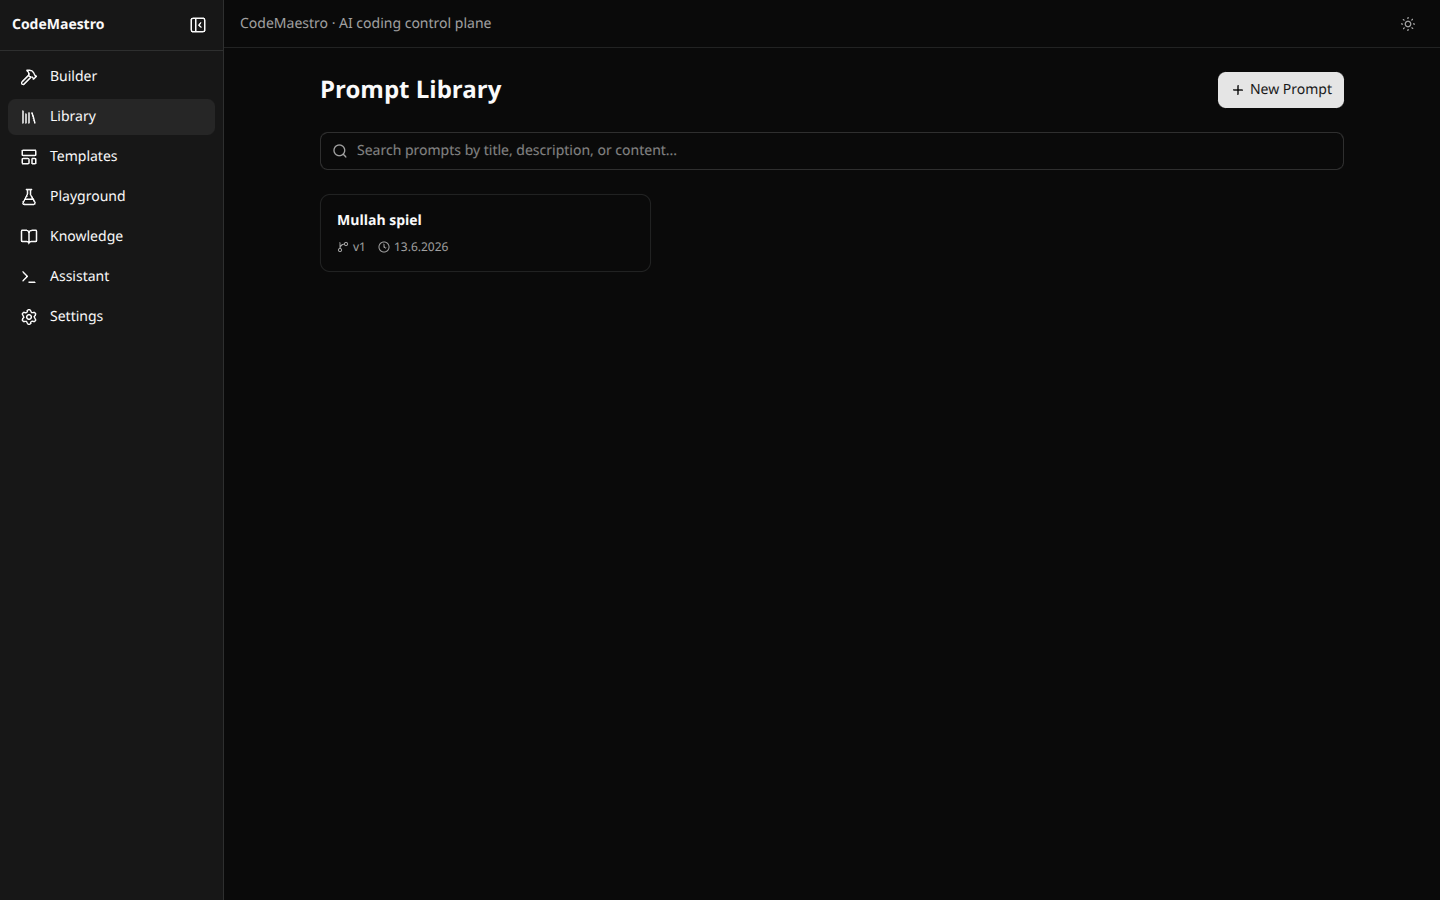
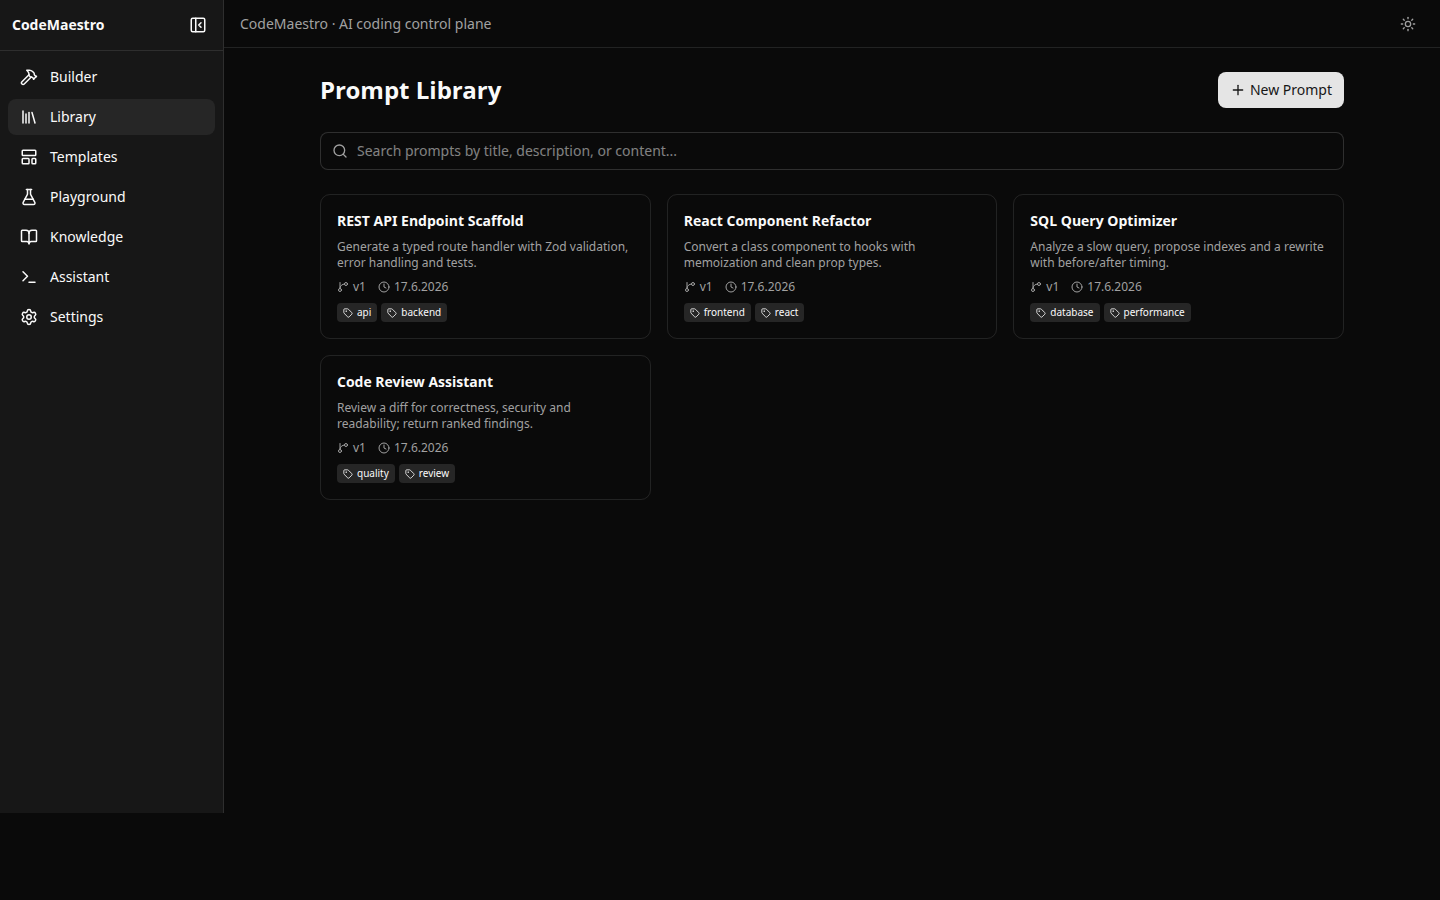
Redesign README and replace Prompt Library screenshot
README:
- Add the optional Telegram bridge across Features, Why, Providers,
  Architecture, Tech Stack, Configuration, Security, and a candid
  Status & Limitations caveat (single-loop turn handling).
- Centered header with badges and a real hero image; drop the broken
  docs/demo.gif reference and the leaking meta-note.
- Tighten the triple-redundant intro; add a Table of Contents,
  a collapsible full provider matrix, and a Contributing section.

Screenshot:
- Replace library.png with neutral demo prompts (was showing a private
  project title).

diff --git a/README.md b/README.md
@@ -1,33 +1,56 @@
-# CodeMaestro
+<div align="center">
 
-> **Conduct a fleet of AI coding agents from anywhere** — forge structured prompts, then drive Claude Code, Gemini CLI, and local models on a real working directory, all from a self-hosted, phone-friendly PWA you control.
+# 🎛 CodeMaestro
 
-![demo](docs/demo.gif)
+### Conduct a fleet of AI coding agents — from anywhere.
 
-> ⚠ **Run it private.** The Code Assistant and Orchestrator execute shell commands on the host. Deploy only on localhost or a trusted private network (e.g. Tailscale/VPN) — never expose it to the public internet. See [Security](#security).
+Forge structured prompts, then drive **Claude Code**, **Gemini CLI**, and **local models** on a real
+working directory — from a self-hosted, phone-friendly PWA you control, with an approval gate and sandbox so you stay in command.
 
-**Conduct a fleet of AI coding agents — from anywhere.** A self-hosted control plane that forges optimized prompts, drives Claude Code and Gemini CLI on a real working directory, and orchestrates multiple models by their strengths — with an approval gate and sandbox so you stay in command.
+<br>
 
-CodeMaestro turns AI coding from a single-terminal habit into an operable system: structure prompts with proven techniques, lint and score them, test them across **Claude, Gemini, and local Ollama models** side by side, ground them in your own knowledge base, and — when you're ready to *act* — hand the task to a planner that routes each subtask to the best model and applies real file changes, gated by diffs you approve.
+[![License: AGPL v3](https://img.shields.io/badge/License-AGPL%20v3-2596be.svg)](./LICENSE)
+[![Next.js 16](https://img.shields.io/badge/Next.js-16-black?logo=next.js)](https://nextjs.org)
+[![React 19](https://img.shields.io/badge/React-19-149eca?logo=react&logoColor=white)](https://react.dev)
+[![TypeScript](https://img.shields.io/badge/TypeScript-strict-3178c6?logo=typescript&logoColor=white)](https://www.typescriptlang.org)
+[![Tailwind v4](https://img.shields.io/badge/Tailwind-v4-38bdf8?logo=tailwindcss&logoColor=white)](https://tailwindcss.com)
+[![PWA](https://img.shields.io/badge/PWA-installable-5a0fc8?logo=pwa&logoColor=white)](#-code-assistant)
+[![Self-hosted](https://img.shields.io/badge/Self--hosted-private--first-2ea44f)](#-security)
+[![PRs Welcome](https://img.shields.io/badge/PRs-welcome-brightgreen.svg)](./CONTRIBUTING.md)
 
-It runs entirely on infrastructure you control and installs as a phone-friendly PWA, so your whole agent fleet is one tap away over Tailscale/VPN. Bring API keys, or use your existing Claude/Gemini logins. Run models locally with Ollama for zero marginal cost.
+<br>
+
+<img src="docs/screenshots/home.png" alt="CodeMaestro home" width="860">
+
+</div>
+
+> [!WARNING]
+> **Run it private.** The Code Assistant, Orchestrator, and Telegram bridge execute shell commands on the host. Deploy only on `localhost` or a trusted private network (e.g. Tailscale/VPN) — **never** expose it to the public internet. See [Security](#-security).
+
+CodeMaestro turns AI coding from a single-terminal habit into an operable system: structure prompts with proven techniques, lint and score them, test them across **Claude, Gemini, and local Ollama models** side by side, ground them in your own knowledge base, and — when you're ready to *act* — hand the task to a planner that routes each subtask to the best model and applies real file changes, gated by diffs you approve. It runs entirely on infrastructure you control, installs as a phone-friendly PWA, and can even be driven from **Telegram** when you're away from your network.
 
 ---
 
-## Status & Limitations
+## Table of Contents
 
-CodeMaestro is **early-stage and under active development**. It's useful today, but be aware of what is and isn't there yet:
-
-- **Orchestrator is experimental.** The multi-model planner is **prompt-based** (an LLM decomposes the task and picks a worker) — there is **no learned/trained routing**, and subtasks currently run **sequentially**, not in parallel. Treat plans as a starting point and review them (Hybrid mode) for non-trivial work.
-- **"deny-with-reason" doesn't close the loop yet.** When you deny an action with a reason, the reason is **stored and logged**, but it is **not yet fed back into the model** to steer the next step. The feedback loop is planned, not implemented.
-- **No automated tests yet.** There is currently no test suite or CI. Changes are validated manually. Contributions here are especially welcome.
-- **Security posture is "trusted network only"** — see [Security](#security). This is a deliberate design point, not a temporary gap.
+- [Why CodeMaestro](#why-codemaestro)
+- [Features](#features)
+- [Screenshots](#screenshots)
+- [Providers & Auth](#-providers--auth--a-tool-for-everything)
+- [Getting Started](#getting-started)
+- [Configuration](#configuration)
+- [Architecture](#architecture)
+- [Status & Limitations](#status--limitations)
+- [Security](#-security)
+- [Roadmap](#roadmap--ideas)
+- [License](#license)
 
 ---
 
 ## Why CodeMaestro
 
 - **Command a fleet, not a terminal** — drive Claude Code and Gemini CLI from the browser or your phone, with session resume, live tool streaming, and a dev-server launcher. Better than a single remote shell.
+- **Reachable from anywhere** — installable PWA over Tailscale/VPN, plus an optional **Telegram bridge** so you can kick off and approve work from your phone with no network access at all.
 - **Orchestrate by strength** — a planner decomposes big tasks and routes each subtask to the best model: frontier models for hard reasoning, large-context models for sweeps, free local models for isolated work.
 - **You stay in command** — opt-in approval gate shows a diff (or the shell command) before any Edit/Write/Bash, with approve / deny / **deny-with-reason** steering, plus a sandbox that confines writes to the project.
 - **Model-agnostic by design** — Claude, Gemini, and any local Ollama model, with live model lists pulled from each provider so you're never stuck on stale IDs.
@@ -42,6 +65,7 @@ CodeMaestro is **early-stage and under active development**. It's useful today, 
 - **14 prompting techniques** with guidance and auto-recommendation — Chain-of-Thought, Zero-/Few-Shot CoT, Self-Consistency, Tree-of-Thoughts, ReAct, Self-Refine, Role Prompting, Structured Output, Meta-Prompting, Constitutional, Step-Back, Analogical, Decomposition.
 - **Multi-agent "swarm" config** for designing hierarchical/mesh/ring/star agent topologies.
 - Live **XML editor** with tag palette and two-way sync to the structured model.
+- **Load & update saved projects** in place — open a library entry back into the builder, edit, and save changes back as a new version.
 
 ### ✅ Prompt Quality Linter
 - Deterministic scoring (A–F + 0–100) on completeness, specificity, example quality, technique alignment, and XML well-formedness.
@@ -59,7 +83,8 @@ CodeMaestro is **early-stage and under active development**. It's useful today, 
 
 ### 🧠 Knowledge Base (RAG)
 - Drop in documents; they're chunked and embedded **locally via Ollama (bge-m3)** — nothing leaves the server.
-- Semantic search over your knowledge, and **"Insert relevant context"** straight into a prompt's context field.
+- Semantic search over your knowledge, **"Insert relevant context"** straight into a prompt's context field, and an opt-in **RAG toggle** that auto-augments Code Assistant (and Telegram) turns with the most relevant chunks.
+- One shared retrieval path for every channel (search UI, Code Assistant, Telegram) — same model, same scoring, graceful no-op when the index is empty or Ollama is down.
 
 ### 🤖 Code Assistant
 - Drive **Claude Code** (`claude -p`) and **Gemini CLI** (`gemini -p`) from the browser, on a real working directory.
@@ -68,17 +93,40 @@ CodeMaestro is **early-stage and under active development**. It's useful today, 
 - **Hardened**: working-directory allowlist with path-traversal guards, conservative tool allowlist (read-only by default; file edits opt-in), per-session permission mode.
 - **From anywhere**: installable PWA with a maximizable full-screen chat, file upload, and a one-tap dev-server launcher (start the app, get the link/port, stop it). Survives mobile standby — work keeps running server-side and the result is shown when you return.
 
+### 📲 Telegram Bridge *(optional)*
+- Drive the Code Assistant from **Telegram** when you're away from your Tailscale/VPN — same runner, sessions, and approval engine as the PWA, no public webhook required (uses long-polling).
+- **Configured entirely in the app** (Settings → Telegram): bot token (kept **server-side**, never in the browser), an **allowed-chat-ID allowlist**, working directory, permission/approval mode, provider/model, and the RAG toggle. Off by default.
+- **Inline approval buttons** — approve or deny an edit/Bash command right from the chat, with the diff previewed inline.
+- **Per-chat sessions**, **image upload** (send a photo and the assistant reads/processes it), and commands: `/new`, `/sessions`, `/kb <query>`, `/status`, `/stop`, `/whoami`, `/help`.
+- Auto-starts on server boot when enabled, so the assistant stays reachable after a restart.
+
 ### 🧩 Multi-Model Orchestrator
 - Give it a larger task; a **planner** decomposes it and routes each subtask to the **best model for the job** (frontier models for hard reasoning, large-context models for broad sweeps, free local models for isolated work).
 - Three modes: **Auto** (fully automatic), **Hybrid** (review the plan and reassign models before running), and **Wizard** (answer a few project questions that bias the plan).
 - Executes across the shared working directory and synthesizes a final summary.
 
 ### 🔌 Providers & Auth — *a tool for everything*
+
 - **Dedicated:** **Claude** (Anthropic SDK) and **Gemini** (Google GenAI) via API key *or* their logged-in CLI (**OAuth/Login**, no key).
-- **OpenAI-compatible (one generic engine):** **OpenAI, OpenRouter, Groq, DeepSeek, Mistral, xAI/Grok, Together, Perplexity** — each via API key with live `/models` discovery.
-- **Local:** **Ollama** and **LM Studio** auto-discovered (no key), plus a **Custom OpenAI-compatible endpoint** (set any base URL — Jan, llama.cpp, vLLM, LocalAI, Azure OpenAI…). The real "everything" switch.
-- **Code-Assistant CLI agents:** drive **Claude Code**, **Gemini CLI**, **OpenCode**, **Codex CLI**, and **Aider** on a real working directory (each uses its own login/config; inert with an install hint until present).
-- New providers are catalog-driven — adding one is a few lines in `src/lib/ai/catalog.ts`.
+- **Local:** **Ollama** and **LM Studio** auto-discovered (no key), plus a **Custom OpenAI-compatible endpoint** (any base URL — Jan, llama.cpp, vLLM, LocalAI, Azure OpenAI…).
+- **Code-Assistant CLI agents:** drive **Claude Code**, **Gemini CLI**, **OpenCode**, **Codex CLI**, and **Aider** on a real working directory.
+
+<details>
+<summary><b>Full provider matrix</b> (8 cloud APIs + locals + CLI agents)</summary>
+
+<br>
+
+| Class | Providers | Auth |
+|---|---|---|
+| **Dedicated** | Claude (Anthropic SDK), Gemini (Google GenAI) | API key **or** CLI OAuth login |
+| **OpenAI-compatible** | OpenAI, OpenRouter, Groq, DeepSeek, Mistral, xAI/Grok, Together, Perplexity | API key, with live `/models` discovery |
+| **Local** | Ollama, LM Studio | auto-discovered, no key |
+| **Custom** | any OpenAI-compatible base URL (Jan, llama.cpp, vLLM, LocalAI, Azure OpenAI…) | base URL (+ optional key) |
+| **CLI agents** | Claude Code, Gemini CLI, OpenCode, Codex CLI, Aider | each uses its own login/config; inert with an install hint until present |
+
+New providers are catalog-driven — adding one is a few lines in `src/lib/ai/catalog.ts`.
+
+</details>
 
 ---
 
@@ -100,18 +148,7 @@ CodeMaestro is **early-stage and under active development**. It's useful today, 
 |---|---|
 | ![Settings](docs/screenshots/settings.png) | ![Home](docs/screenshots/home.png) |
 
-> Screenshots are from a running self-hosted instance (dark theme). Replace
-> `docs/demo.gif` above with a short screen recording when you have one.
-
----
-
-## Tech Stack
-
-- **Next.js 16** (App Router, Turbopack) · **React 19** · **TypeScript**
-- **Tailwind CSS v4** · Radix UI · CodeMirror · Zustand
-- **Prisma 7** + SQLite (better-sqlite3)
-- **@anthropic-ai/sdk** · **@google/genai** · Ollama HTTP API
-- Optional CLIs: **Claude Code** and **Gemini CLI** (for the Code Assistant & Orchestrator)
+<sub>Screenshots are from a running self-hosted instance (dark theme).</sub>
 
 ---
 
@@ -121,6 +158,7 @@ CodeMaestro is **early-stage and under active development**. It's useful today, 
 - Node.js **≥ 20.9** (Node 22 recommended)
 - For local models: [Ollama](https://ollama.com) running (default `http://localhost:11434`)
 - For the Code Assistant: [Claude Code](https://claude.com/claude-code) and/or [Gemini CLI](https://github.com/google-gemini/gemini-cli) installed and authenticated
+- For the Telegram bridge *(optional)*: a bot token from [@BotFather](https://t.me/BotFather)
 
 ### Install & run
 ```bash
@@ -155,6 +193,8 @@ All environment variables are optional; sensible defaults apply.
 | `OLLAMA_EMBED_MODEL` | `bge-m3:latest` | Embedding model for the knowledge base |
 | `ASSISTANT_ALLOWED_DIRS` | parent of the app dir | Colon-separated roots the Code Assistant may operate in |
 
+> The **Telegram bridge** needs no environment variables — it's configured entirely in **Settings → Telegram**, and the bot token is stored server-side only.
+
 ---
 
 ## Architecture
@@ -163,26 +203,40 @@ All environment variables are optional; sensible defaults apply.
 Next.js App (App Router)
 ├─ UI: Builder · Library · Templates · Playground · Knowledge · Assistant · Settings
 ├─ API routes
-│  ├─ /api/ai/*            chat · models · validate   (Claude / Gemini / Ollama)
+│  ├─ /api/ai/*                  chat · models · validate   (Claude / Gemini / Ollama)
 │  ├─ /api/prompts, /templates, /test-results, /knowledge
-│  └─ /api/assistant/*     sessions · message (SSE) · orchestrate · workspaces
+│  └─ /api/assistant/*           sessions · message (SSE) · orchestrate · workspaces · telegram
 ├─ lib
-│  ├─ ai/                  provider factory, model discovery, pricing, embeddings
-│  ├─ prompt-engine/       XML build/parse, techniques, linter, CoT generator
-│  └─ assistant/           CLI runner, orchestrator, sandbox/security
-└─ Prisma + SQLite         prompts, versions, tags, test results/cases, knowledge, sessions
+│  ├─ ai/                        provider factory, model discovery, pricing, embeddings
+│  ├─ prompt-engine/             XML build/parse, techniques, linter, CoT generator
+│  ├─ knowledge/                 shared RAG retrieval (embed + cosine)
+│  └─ assistant/                 CLI runner, orchestrator, approvals, sandbox, telegram bridge
+└─ Prisma + SQLite               prompts, versions, tags, test results/cases, knowledge, sessions, settings
 ```
 
-The Code Assistant spawns the provider CLIs per turn and streams their `stream-json` output to the browser over SSE; continuity is handled via the CLIs' own session resume.
+The Code Assistant spawns the provider CLIs per turn and streams their `stream-json` output to the browser over SSE; continuity is handled via the CLIs' own session resume. The Telegram bridge reuses that same runner and approval machinery behind a long-poll loop.
 
 ---
 
-## Security
+## Status & Limitations
+
+CodeMaestro is **early-stage and under active development**. It's useful today, but be aware of what is and isn't there yet:
+
+- **Orchestrator is experimental.** The multi-model planner is **prompt-based** (an LLM decomposes the task and picks a worker) — there is **no learned/trained routing**, and subtasks currently run **sequentially**, not in parallel. Review plans (Hybrid mode) for non-trivial work.
+- **"deny-with-reason" doesn't close the loop yet.** The reason is **stored and logged**, but **not yet fed back into the model** to steer the next step. Planned, not implemented.
+- **Telegram runs one turn at a time.** The bridge processes updates on a single poll loop, so a long turn occupies the bridge until it finishes; for unattended Telegram use, prefer permission mode `acceptEdits` (or the approval gate off) until the turn loop is made concurrent.
+- **No automated tests yet.** There is currently no test suite or CI. Changes are validated manually. Contributions here are especially welcome.
+- **Security posture is "trusted network only"** — see [Security](#-security). A deliberate design point, not a temporary gap.
+
+---
+
+## 🔒 Security
 
 CodeMaestro is designed to run in a **trusted, private environment** (e.g. localhost or a private Tailscale/VPN network), not exposed to the public internet.
 
-- **The Code Assistant and Orchestrator execute code and shell commands** on the host. Access is sandboxed to an allowlist of working directories (`ASSISTANT_ALLOWED_DIRS`) with path-traversal guards, and tool permissions default to read-only — but anyone who can reach the app can drive these tools. Keep it private.
-- API keys entered in Settings are stored in the browser's `localStorage`. In a non-HTTPS context (e.g. plain `http://` on a private IP) they are base64-obfuscated rather than encrypted — treat this as obfuscation, not security. Prefer HTTPS (e.g. `tailscale serve`) or server-side keys for stronger protection.
+- **The Code Assistant, Orchestrator, and Telegram bridge execute code and shell commands** on the host. Access is sandboxed to an allowlist of working directories (`ASSISTANT_ALLOWED_DIRS`) with path-traversal guards, and tool permissions default to read-only — but anyone who can reach the app can drive these tools. Keep it private.
+- **Telegram access is allowlisted** by chat ID (empty allowlist = nobody), and the bot token is stored server-side only — never sent to the browser. Still, treat the bridge as remote shell access and only allowlist chats you trust.
+- API keys entered in Settings are stored in the browser's `localStorage`. In a non-HTTPS context they are base64-obfuscated rather than encrypted — treat this as obfuscation, not security. Prefer HTTPS (e.g. `tailscale serve`) or server-side keys for stronger protection.
 - No telemetry. Prompts, keys, embeddings, and transcripts stay in your local SQLite DB and browser.
 
 ---
@@ -190,16 +244,23 @@ CodeMaestro is designed to run in a **trusted, private environment** (e.g. local
 ## Roadmap / Ideas
 
 - HTTPS via `tailscale serve` for full PWA install + Web Crypto key encryption
+- Concurrent Telegram turn handling + closing the deny-with-reason feedback loop
+- Parallel subtask execution in the Orchestrator
 - Prompt A/B testing dashboards and analytics
 - Shareable prompt packs / team library
 - Pluggable vector backends for larger knowledge bases
 
 ---
 
+## Contributing
+
+Issues and PRs are welcome — see [`CONTRIBUTING.md`](./CONTRIBUTING.md) and [`SECURITY.md`](./SECURITY.md). There's no CI yet, so please describe how you tested your change.
+
+---
+
 ## License
 
-Released under the GNU Affero General Public License v3.0 (AGPL-3.0).
-© 2026 Jurak Bahrambäk. Free to use, modify, and self-host;
-network/SaaS use must release source changes. Contributions welcome.
+Released under the **GNU Affero General Public License v3.0 (AGPL-3.0)**.
+© 2026 Jurak Bahrambäk. Free to use, modify, and self-host; network/SaaS use must release source changes.
 
 See [`LICENSE`](./LICENSE) for the full text.
